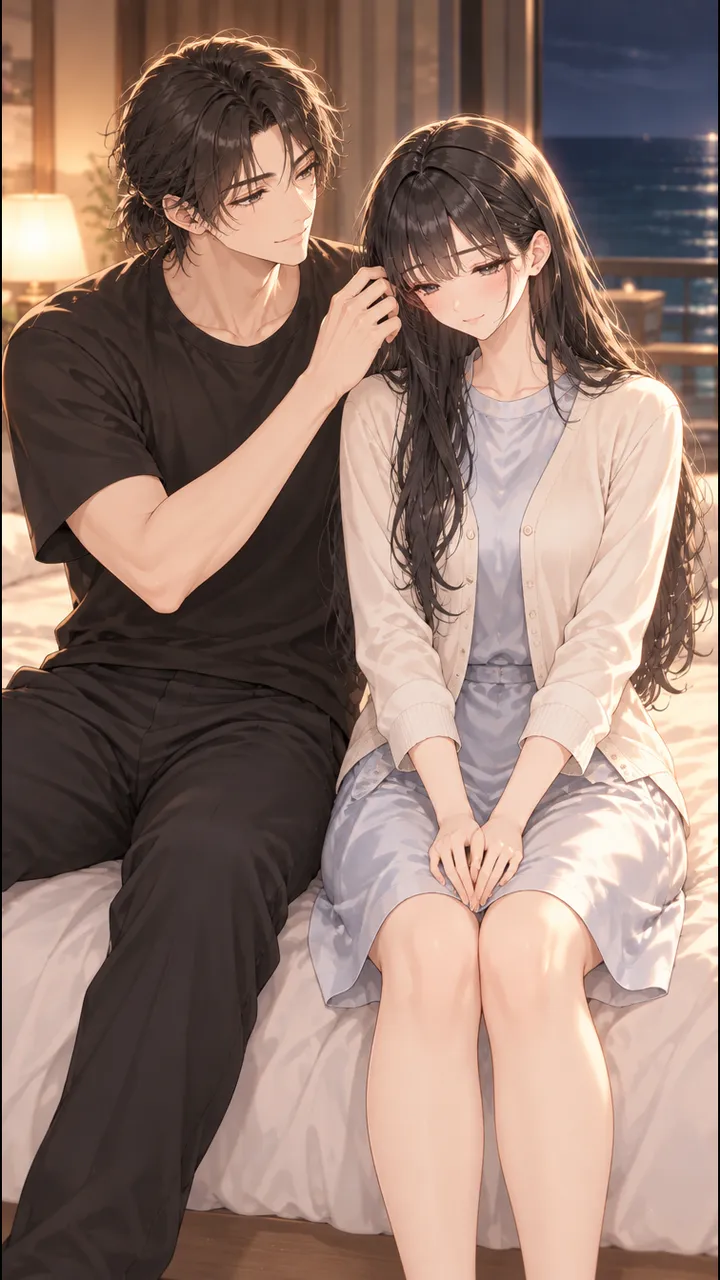
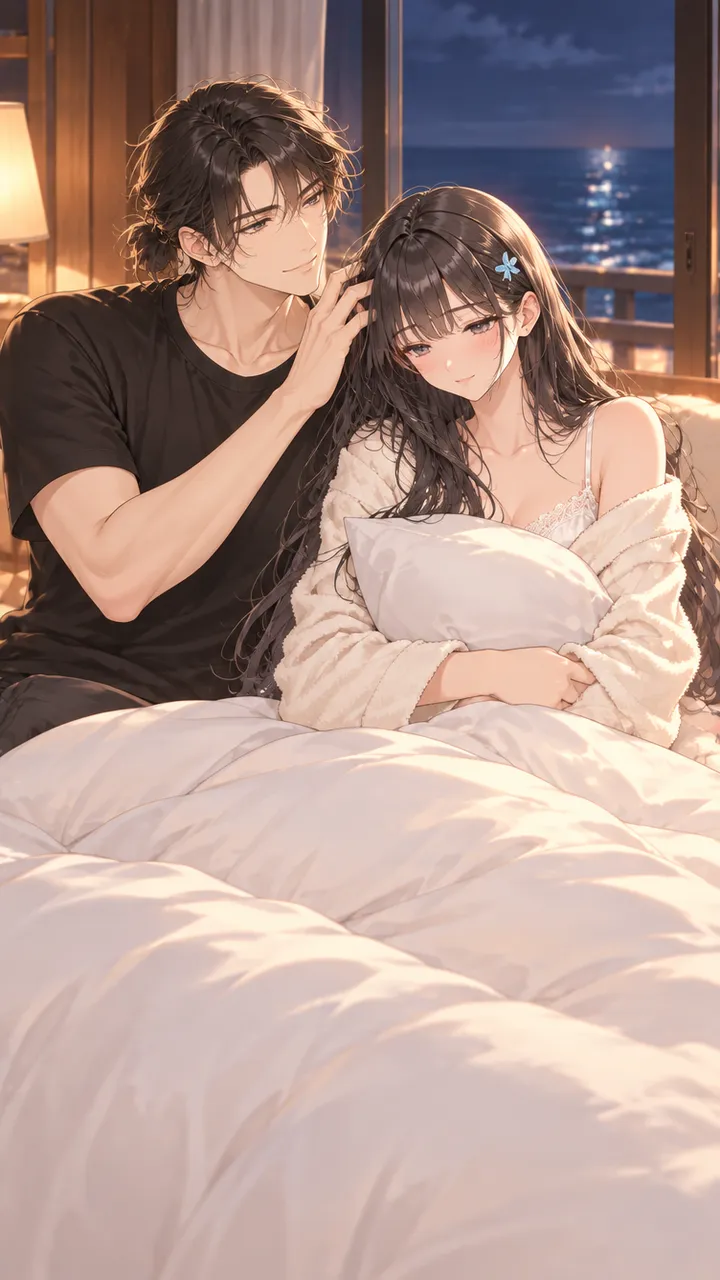
첫날밤 직전 일러스트(속옷 차림 버전) 나머지 6장 교체

diff --git a/index.html b/index.html
@@ -469,7 +469,7 @@ h1,h2,h3,.wordmark,.hud-line b,.sh-head b,.wizq h2,input[type=text]{font-family:
    <button class="btn blue" id="b-new">새로 시작</button>
    <button class="btn ghost sm" id="b-slots" style="display:none;background:rgba(255,255,255,.8)">저장 슬롯 불러오기</button>
    <button class="btn ghost sm" id="b-cont" style="display:none;background:rgba(255,255,255,.8)">이어하기</button>
-   <div class="note">저장은 이 기기에만 보관돼요. · 빌드 #82 · 2026.10.11<br><span id="fitdiag"></span></div>
+   <div class="note">저장은 이 기기에만 보관돼요. · 빌드 #83 · 2026.10.11<br><span id="fitdiag"></span></div>
   </div>
  </section>
  <section id="setup" class="screen">
@@ -508,7 +508,7 @@ h1,h2,h3,.wordmark,.hud-line b,.sh-head b,.wizq h2,input[type=text]{font-family:
  <div id="agegate" class="agegate"><div class="agbox"><div class="agmark">19</div><h2>성인 이용 안내</h2><p>이 게임에는 성인 연애 묘사(암시적 장면)가 포함되어 있어<br>만 19세 이상만 이용할 수 있어요.</p><label for="ag-year">태어난 해</label><select id="ag-year"></select><button id="ag-ok" class="agok">확인하고 시작하기</button><button id="ag-no" class="agno">나가기</button><small id="ag-msg"></small></div></div>
  <div id="act" class="actcard"></div>
  <div id="ev" class="evcard"></div>
- <div id="buildtag">빌드 #82 · 2026.10.11</div>
+ <div id="buildtag">빌드 #83 · 2026.10.11</div>
  <div class="ov" id="ov"><div class="sheet" id="sheet"></div></div>
 </div>
 <script>// ==ENGINE== 순수 게임 로직 (DOM 금지: sim.mjs가 이 파일들을 그대로 실행한다)
@@ -7353,7 +7353,7 @@ function initGame(){
   $('btn-advice').onclick = () => { if($('dialog').hidden) showDialog(); else $('dialog').hidden = true; };
   $('dlg-x').onclick = () => { $('dialog').hidden = true; };
   document.querySelectorAll('[data-sheet]').forEach(b => b.onclick = () => ({stat:showStats, career:showCareer, love:showLove, dex:showDex, shop:showShop, campus:showCampus, city:showCity, dex:showDex}[b.dataset.sheet])());
-  $('b-menu').onclick = () => { openSheet(sheetHead('메뉴') + `<div class="menu-list"><button class="btn ghost sm" id="m-dex">📖 도감 (엔딩·인물)</button><button class="btn ghost sm" id="m-update">🔄 새 버전 확인</button><button class="btn ghost sm" id="m-slots">💾 저장 · 불러오기 (슬롯 5개)</button><button class="btn ghost sm" id="m-title">🏠 타이틀로 (자동 저장)</button></div><div class="foot">빌드 #82 · 2026.10.11<br><span id="diag"></span></div>`);
+  $('b-menu').onclick = () => { openSheet(sheetHead('메뉴') + `<div class="menu-list"><button class="btn ghost sm" id="m-dex">📖 도감 (엔딩·인물)</button><button class="btn ghost sm" id="m-update">🔄 새 버전 확인</button><button class="btn ghost sm" id="m-slots">💾 저장 · 불러오기 (슬롯 5개)</button><button class="btn ghost sm" id="m-title">🏠 타이틀로 (자동 저장)</button></div><div class="foot">빌드 #83 · 2026.10.11<br><span id="diag"></span></div>`);
     $('x').onclick = closeSheet;
     try{ const pr = document.createElement('div'); pr.style.cssText = 'position:fixed;left:0;bottom:0;padding-bottom:env(safe-area-inset-bottom);padding-top:env(safe-area-inset-top);visibility:hidden'; document.body.appendChild(pr); const cs = getComputedStyle(pr), sb = cs.paddingBottom, st = cs.paddingTop; pr.remove(); const sa = window.navigator.standalone === true || matchMedia('(display-mode: standalone)').matches; $('diag').textContent = `화면 ${innerWidth}×${innerHeight} · 기기 ${screen.width}×${screen.height} · 안전영역 위 ${st}/아래 ${sb} · ${sa ? '홈 화면 앱' : '브라우저'}`; }catch(e){}
     $('m-dex').onclick = () => { closeSheet(); showDex(); };
@@ -7414,7 +7414,7 @@ function probeFit(big){
 fitFull(); addEventListener('resize', fitFull); addEventListener('orientationchange', () => setTimeout(fitFull, 300)); setTimeout(fitFull, 600);
 
 // ── 새 버전 확인: 사파리는 페이지를 몇 분간 기억해 두므로, 서버의 빌드 번호와 비교해 알려 준다 ──
-const BUILD_NO = parseInt(('#82 · 2026.10.11'.match(/#(\d+)/) || [0, 0])[1], 10);
+const BUILD_NO = parseInt(('#83 · 2026.10.11'.match(/#(\d+)/) || [0, 0])[1], 10);
 async function checkUpdate(manual){
   try{
     const r = await fetch(location.pathname + '?_=' + Date.now(), {cache:'no-store'}); const txt = await r.text();

diff --git a/sw.js b/sw.js
@@ -1,5 +1,5 @@
 // 자동 생성 파일 (build.mjs). 직접 수정하지 마세요.
-const CACHE = 'rewind-ten-9b43358b4e';
+const CACHE = 'rewind-ten-e421645072';
 const CORE = ["./","index.html","manifest.json","icon-192.png","icon-512.png","art/cover.webp","art/age20.webp","art/age22.webp","art/act_study.webp","art/act_cafe.webp","art/act_rest.webp","art/act_friends.webp","art/face_happy.webp","art/face_tired.webp"];
 self.addEventListener('install', e => { e.waitUntil(caches.open(CACHE).then(c => c.addAll(CORE)).then(() => self.skipWaiting())); });
 self.addEventListener('activate', e => { e.waitUntil(caches.keys().then(ks => Promise.all(ks.filter(k => k.startsWith('rewind-ten-') && k !== CACHE).map(k => caches.delete(k)))).then(() => self.clients.claim())); });
